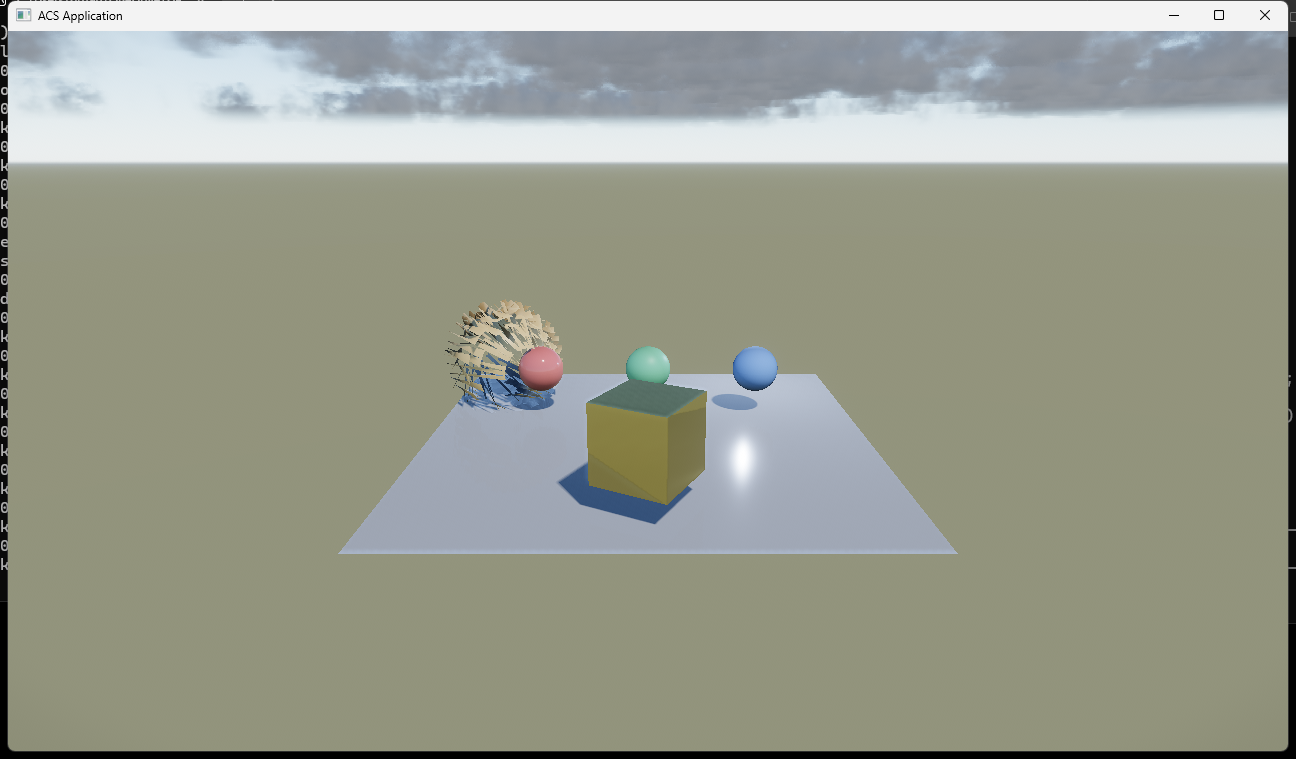
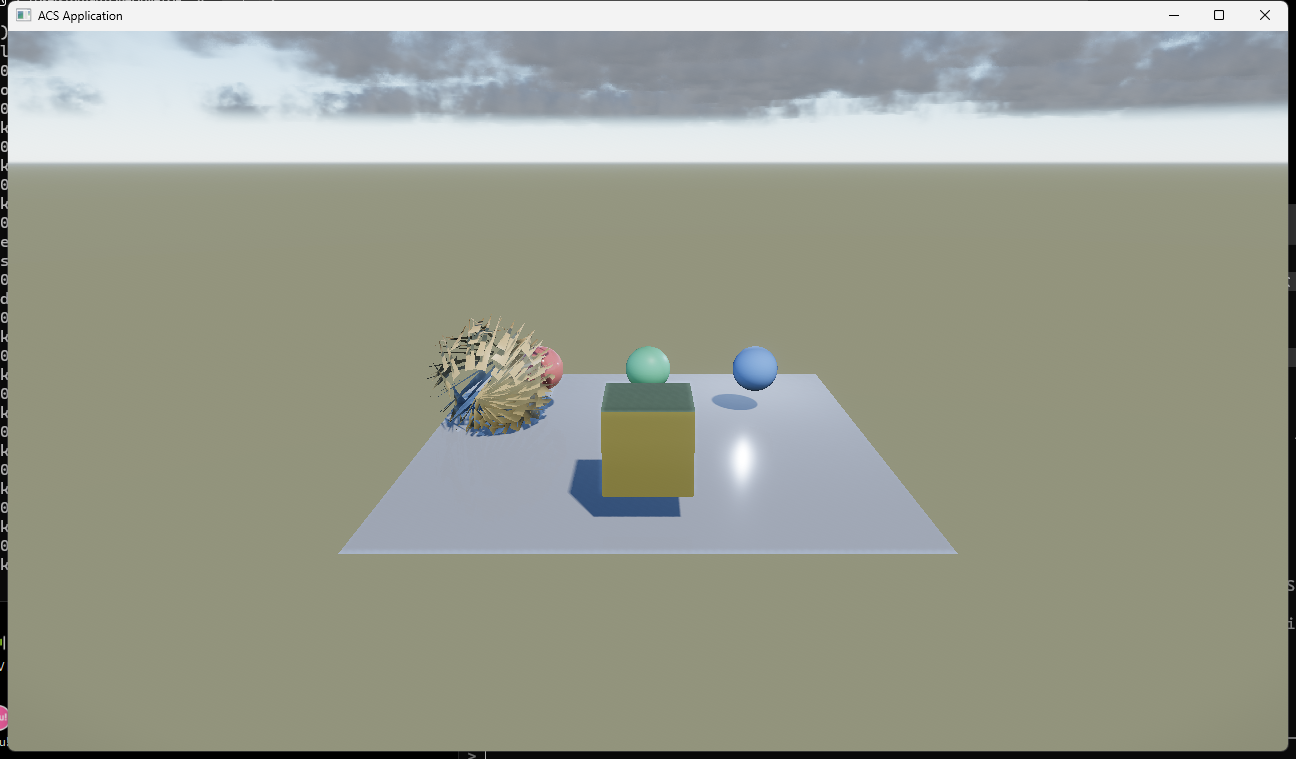
Move the demo model with the new node helpers
「モデルを動かすのが面倒」への答え。前:

  m_SpinDegrees += kSpinSpeed * DeltaSeconds;
  if ( m_SpinDegrees >= 360.0f ) m_SpinDegrees -= 360.0f;
  m_Spinner->Local().rotation = FQuat::Euler( 0, m_SpinDegrees * 0.01745329252f, 0 );

後:

  m_Spinner->RotateDeg( FVec3{ 0, kSpinSpeed * DeltaSeconds, 0 } );

角度を自分で持ち回る必要も、度をラジアンに直す定数を書く必要も無くなった。

取り込んだ FBX を 2 点のあいだで往復させ、進む先を向かせている。**«動かす» のに要るのは
これだけ**、というのを見せるための最小の動き:

  if ( m_Mover->MoveToward( m_MoveTarget, kMoveSpeed * DeltaSeconds ) )
      m_MoveTarget.z = -m_MoveTarget.z;
  m_Mover->LookAt( m_MoveTarget );

Claude-Session: https://claude.ai/code/session_01QWWHaYrgcmNEqsp8SUqeVs

diff --git a/Source/AcsFramework_Sample/Scene/Demo3DScene.cpp b/Source/AcsFramework_Sample/Scene/Demo3DScene.cpp
@@ -15,6 +15,9 @@ namespace
 
 	/** 回す速さ (度 / 秒)。 */
 	constexpr f32 kSpinSpeed = 30.0f;
+
+	/** 往復させる速さ (world 単位 / 秒)。 */
+	constexpr f32 kMoveSpeed = 1.8f;
 }
 
 
@@ -67,11 +70,10 @@ void ADemo3DScene::OnEnter() noexcept
 		FModel3DSpawnParams Model =
 			FModel3DSpawnParams::FromMesh( FStringView( "Models/MergedSphere.fbx" ), FVec3{ -3.4f, 1.0f, 2.4f } );
 		Model.Scale = FVec3{ 1.4f, 1.4f, 1.4f };
-		Model.RotationDeg = FVec3{ 0.0f, -35.0f, 0.0f };
 		Model.Color = FVec4{ 0.92f, 0.62f, 0.28f, 1.0f };
 		Model.Roughness = 0.40f;
 		Model.Name = FStringView( "ImportedModel" );
-		CModel3DSpawner::SpawnInto( Root(), Model, Assets->Models() );
+		m_Mover = CModel3DSpawner::SpawnInto( Root(), Model, Assets->Models() );
 	}
 
 	// 太陽。斜め上から差す。ここを消すとエンジン既定の太陽に落ちる。
@@ -171,10 +173,16 @@ void ADemo3DScene::OnUpdate( f32 DeltaSeconds ) noexcept
 	ALegacyScene3DAdapter::OnUpdate( DeltaSeconds );
 	ReportFrameTime( DeltaSeconds );
 
-	if ( m_Spinner == nullptr ) return;
+	// 回す。度のまま足せる (ラジアンへ直す必要は無い)。
+	if ( m_Spinner != nullptr ) m_Spinner->RotateDeg( FVec3{ 0.0f, kSpinSpeed * DeltaSeconds, 0.0f } );
 
-	m_SpinDegrees += kSpinSpeed * DeltaSeconds;
-	if ( m_SpinDegrees >= 360.0f ) m_SpinDegrees -= 360.0f;
+	// 取り込んだモデルを 2 点のあいだで往復させ、進む先を向かせる。
+	// **«動かす» のに要るのはこれだけ**、というのを見せるための最小の動き。
+	if ( m_Mover == nullptr ) return;
 
-	m_Spinner->Local().rotation = FQuat::Euler( 0.0f, m_SpinDegrees * 0.01745329252f, 0.0f );
+	if ( m_Mover->MoveToward( m_MoveTarget, kMoveSpeed * DeltaSeconds ) )
+	{
+		m_MoveTarget.z = -m_MoveTarget.z;
+	}
+	m_Mover->LookAt( m_MoveTarget );
 }

diff --git a/Source/AcsFramework_Sample/Scene/Demo3DScene.h b/Source/AcsFramework_Sample/Scene/Demo3DScene.h
@@ -47,8 +47,11 @@ private:
 	/** 回す対象。所有はしない (木が持っている)。 */
 	ANode* m_Spinner = nullptr;
 
-	/** 回した量 (度)。 */
-	f32 m_SpinDegrees = 0.0f;
+	/** 往復させる取り込みモデル。所有はしない (木が持っている)。 */
+	ANode* m_Mover = nullptr;
+
+	/** いま向かっている先。着いたら z の符号を反転して折り返す。 */
+	FVec3 m_MoveTarget{ -3.4f, 1.0f, -2.4f };
 
 	/** 直近 1 秒ぶんの経過秒の合計。 */
 	f32 m_FrameTimeAccum = 0.0f;
